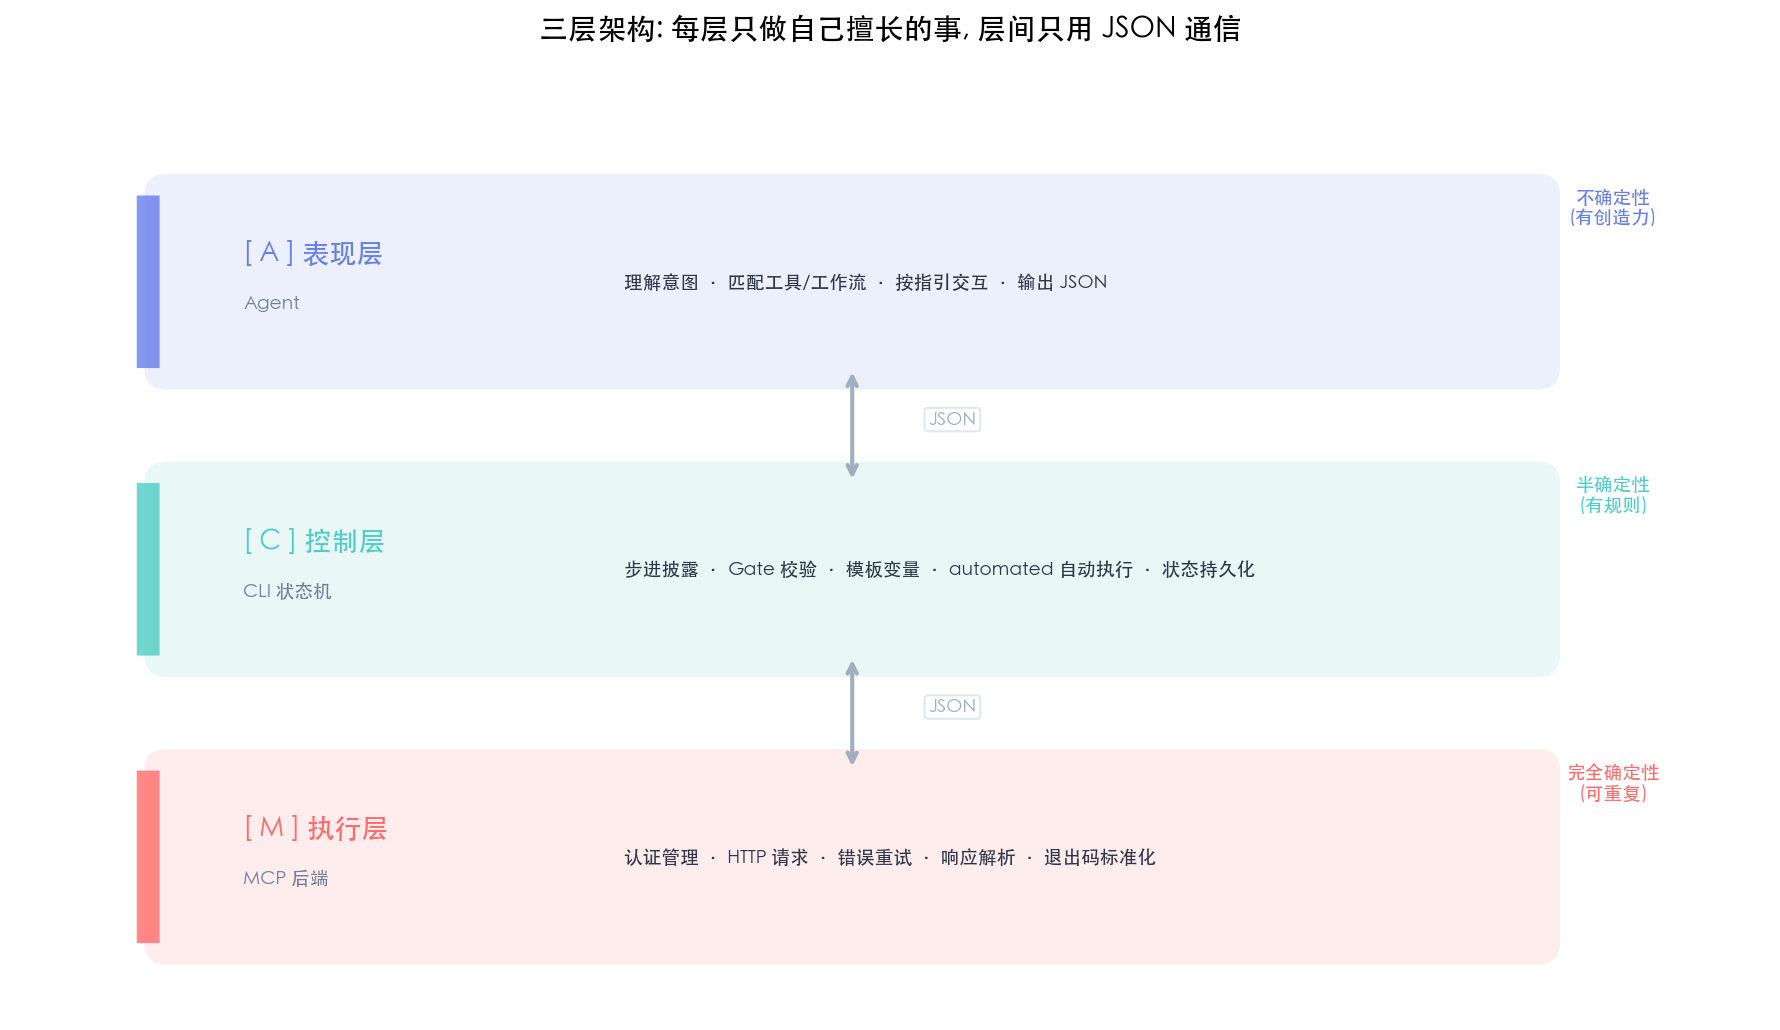
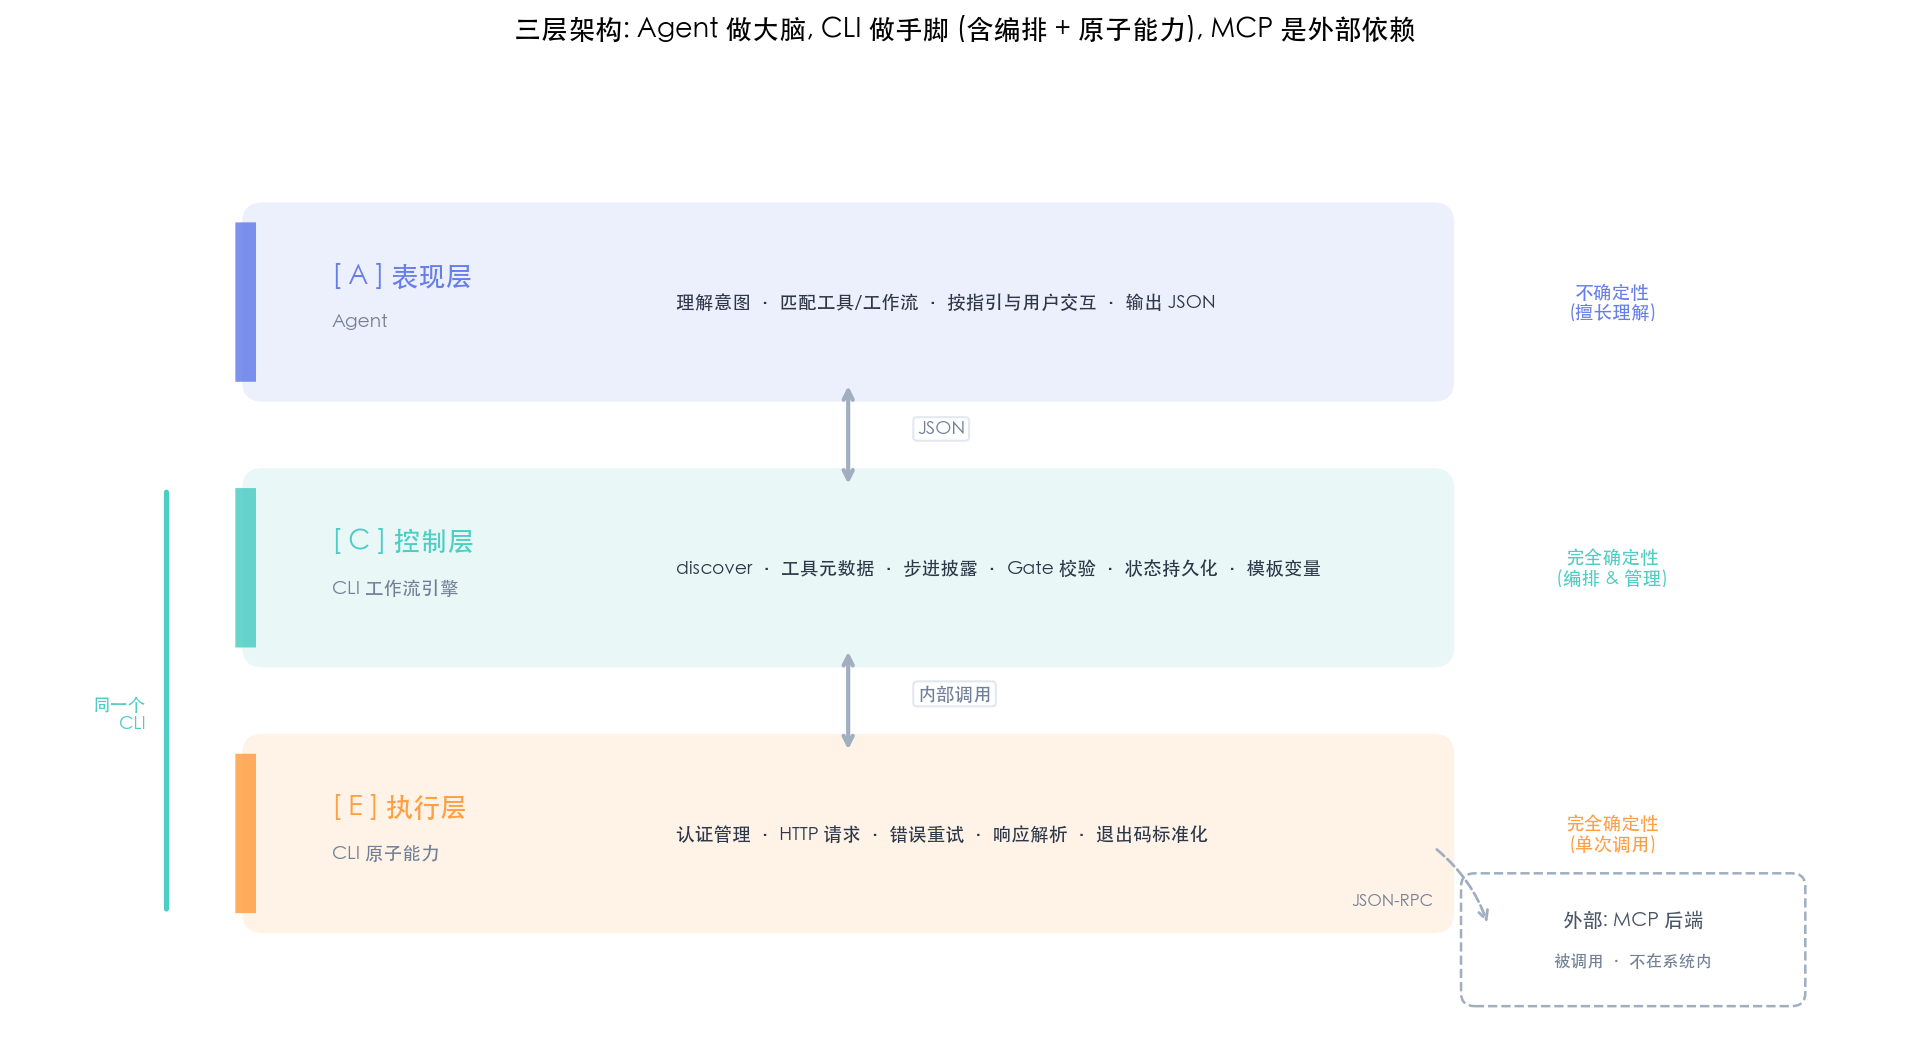
文章修改

diff --git a/articles/skill-design-sharing/SKILL_DESIGN_SHARING.md b/articles/skill-design-sharing/SKILL_DESIGN_SHARING.md
@@ -550,7 +550,12 @@ workflows/create-permission-set/
 
 ![三层架构全景](articles/skill-design-sharing/assets/06-three-layer.png)
 
-每一层只做自己擅长的事。层间只用 JSON 通信——没有自然语言的歧义，没有"你理解一下"的灰色地带。
+**三层归属**：
+- **表现层** = Agent，负责理解和交互，保留不确定性但被限定在决策空间
+- **控制层 + 执行层** = 同一个 CLI 的两个职责面。控制层是工作流引擎（discover / 步进 / Gate / 状态机 / 模板变量），执行层是原子 HTTP 调用（认证 / 重试 / 退出码）。两者在同一个 `pangu-cli.sh` 里，一起构成"CLI 这根支柱"
+- **MCP 后端** = 外部被调用的服务，不在"系统内层"——CLI 通过 JSON-RPC 访问它
+
+Agent 和 CLI 之间只用 JSON 通信；CLI 内部两层是函数级调用；CLI 到 MCP 后端走 JSON-RPC。整条链路上没有自然语言的歧义，没有"你理解一下"的灰色地带。
 
 ---
 

diff --git a/articles/skill-design-sharing/content.md b/articles/skill-design-sharing/content.md
@@ -550,7 +550,12 @@ workflows/create-permission-set/
 
 ![三层架构全景](articles/skill-design-sharing/assets/06-three-layer.png)
 
-每一层只做自己擅长的事。层间只用 JSON 通信——没有自然语言的歧义，没有"你理解一下"的灰色地带。
+**三层归属**：
+- **表现层** = Agent，负责理解和交互，保留不确定性但被限定在决策空间
+- **控制层 + 执行层** = 同一个 CLI 的两个职责面。控制层是工作流引擎（discover / 步进 / Gate / 状态机 / 模板变量），执行层是原子 HTTP 调用（认证 / 重试 / 退出码）。两者在同一个 `pangu-cli.sh` 里，一起构成"CLI 这根支柱"
+- **MCP 后端** = 外部被调用的服务，不在"系统内层"——CLI 通过 JSON-RPC 访问它
+
+Agent 和 CLI 之间只用 JSON 通信；CLI 内部两层是函数级调用；CLI 到 MCP 后端走 JSON-RPC。整条链路上没有自然语言的歧义，没有"你理解一下"的灰色地带。
 
 ---
 
